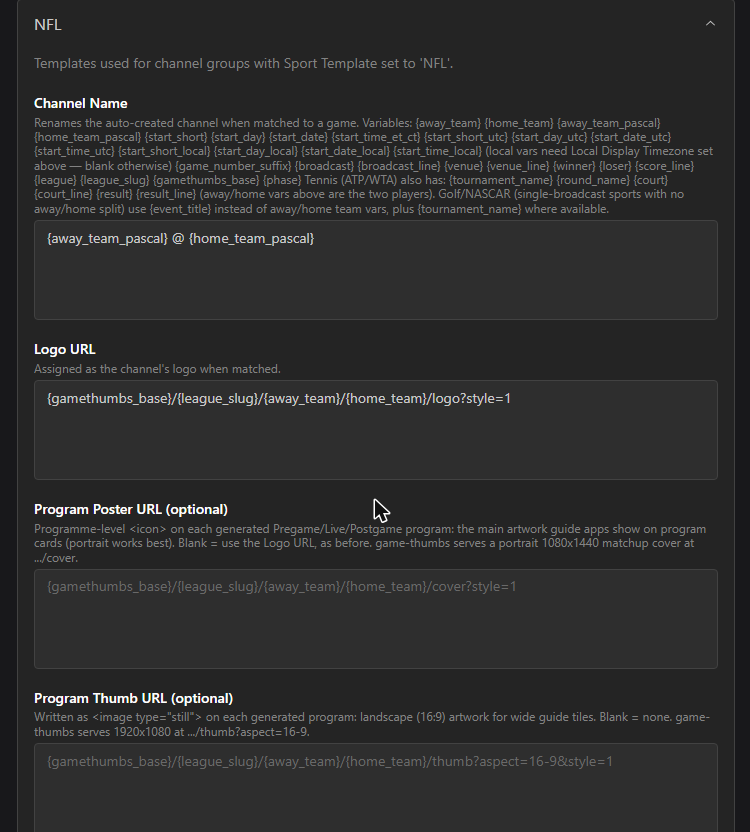
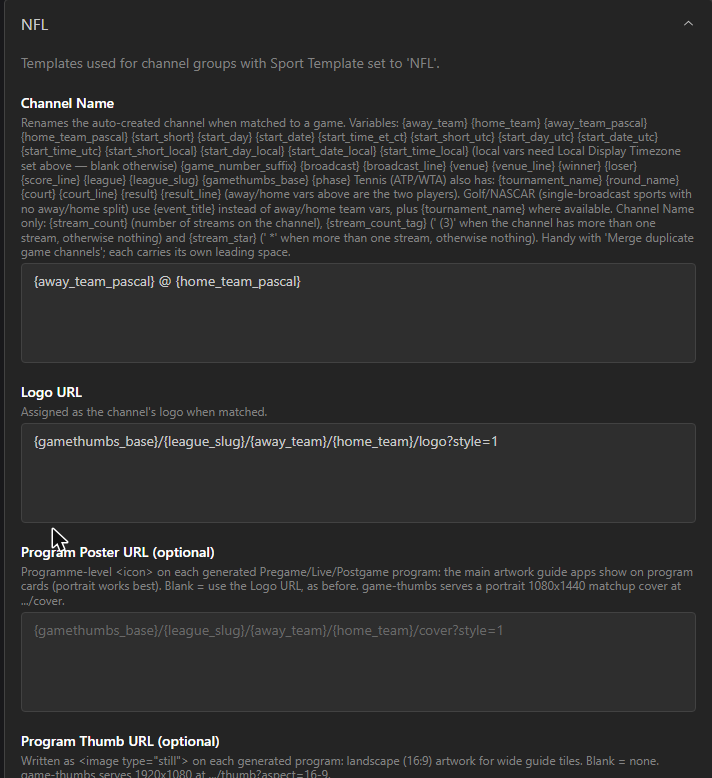
v0.6.05: stream-count variables for Channel Name (GH #35)
Adds {stream_count}, {stream_count_tag} (" (3)") and {stream_star} (" *") to
the Channel Name template so a channel with backup streams (for example after
"Merge duplicate game channels") can show it in the channel name. Tag and star
are empty for a single-stream channel. Off unless a template uses a variable.

The merge pass runs after the per-channel rename, so channels the merge touched
are re-processed afterwards (only when a saved Channel Name template uses a
stream variable) so the name carries the current count and the generated guide
name stays equal to the channel name.

Tested on dispatch-test with real Celery refreshes and Auto Channel Sync across
three fake providers: tag/star/default templates, re-refresh stability, provider
drop, merge off. Docs: README what's new, Sport Templates guide section and
variable reference, new screenshot, refreshed NFL template screenshot.

diff --git a/plugin.py b/plugin.py
@@ -1335,7 +1335,7 @@ _RULE_FORMAT_HELP = (
 
 class Plugin:
     name = "EPG & Sports Editor"
-    version = "0.6.04"
+    version = "0.6.05"
     description = (
         "Transform EPG program data into virtual EPG sources using "
         "per-source, per-field regex and find/replace rules. "
@@ -1838,7 +1838,13 @@ class Plugin:
                     "label": "Channel Name",
                     "type": "text",
                     "default": defaults["channel_name"],
-                    "help_text": "Renames the auto-created channel when matched to a game. " + self._SPORT_TEMPLATE_VAR_HELP,
+                    "help_text": (
+                        "Renames the auto-created channel when matched to a game. " + self._SPORT_TEMPLATE_VAR_HELP
+                        + " Channel Name only: {stream_count} (number of streams on the channel), "
+                        "{stream_count_tag} (' (3)' when the channel has more than one stream, otherwise nothing) "
+                        "and {stream_star} (' *' when more than one stream, otherwise nothing). Handy with "
+                        "'Merge duplicate game channels'; each carries its own leading space."
+                    ),
                 },
                 {
                     "id": f"sport_tpl_{slug}_logo_url",
@@ -3462,6 +3468,53 @@ class Plugin:
         }
 
     @staticmethod
+    def _stream_count_vars(ch):
+        """Template variables describing how many streams `ch` has right now (Channel Name only):
+        {stream_count} is the number; {stream_count_tag} is " (3)" and {stream_star} is " *",
+        both EMPTY when the channel has just one stream, and both carry their own leading space,
+        so "{away_team_pascal} @ {home_team_pascal}{stream_count_tag}" never leaves a trailing
+        space. Read from the database each pass: a merged channel (see
+        _merge_duplicate_channels) counts the streams that feature added. On any error the
+        count is treated as 1, so a failure here can only ever hide the marker, never break
+        the rename."""
+        try:
+            from apps.channels.models import ChannelStream
+            n = ChannelStream.objects.filter(channel_id=ch.id).count()
+        except Exception:
+            n = 1
+        n = max(int(n), 1)
+        return {
+            "stream_count": str(n),
+            "stream_count_tag": f" ({n})" if n > 1 else "",
+            "stream_star": " *" if n > 1 else "",
+        }
+
+    def _rename_after_merge(self, settings, sport_groups, events, epg_source):
+        """The merge pass runs AFTER the per-channel rename, so a channel it just gave extra
+        streams (or took them back from) was named with the old stream count. When any saved
+        Channel Name template uses a stream-count variable, re-process just the channels the
+        merge touched so the name, and the generated guide that carries the same name, show
+        the current count. Does nothing otherwise, so existing setups never pay for it."""
+        touched = getattr(self, "_merge_touched", None) or set()
+        self._merge_touched = set()
+        if not touched or not events:
+            return
+        uses = any(
+            isinstance(v, str) and "{stream_" in v
+            for k, v in (settings or {}).items()
+            if str(k).startswith("sport_tpl_") and str(k).endswith("_channel_name")
+        )
+        if not uses:
+            return
+        from apps.channels.models import Channel
+        for group, sport in sport_groups:
+            for ch in Channel.objects.filter(auto_created=True, channel_group=group, id__in=touched):
+                try:
+                    self._process_sports_editor_channel(ch, sport, events, settings, epg_source)
+                except Exception as exc:
+                    LOGGER.warning(f"EPG & Sports Editor: re-naming merged channel '{ch.name}' failed: {exc}")
+
+    @staticmethod
     def _render_sports_template(template_str, vars_dict):
         if not template_str:
             return ""
@@ -3651,6 +3704,10 @@ class Plugin:
                         f"EPG & Sports Editor: duplicate merge: channel {pid} '{names.get(pid, '')}' now has "
                         f"{added} added backup stream(s); hid {n} duplicate channel(s) {entry['dups']}"
                     )
+
+            # Primaries whose stream count may have changed (merged now, or released now), so the
+            # caller can refresh their names when a Channel Name template shows the count.
+            self._merge_touched = set(desired) | set(prev_primaries)
 
             new_state = {str(pid): {"dups": sorted(e["dups"]), "streams": e["streams"]} for pid, e in desired.items()}
             if new_state != old_state:
@@ -4046,6 +4103,9 @@ class Plugin:
         vars_base = self._build_sdp_template_vars(
             event, gamethumbs_base, league_label, "pregame", feed_tag=feed_tag, display_tz=display_tz
         )
+        # Channel Name only: how many streams this channel has right now (own + any added by
+        # the duplicate-merge feature). See _stream_count_vars.
+        vars_base.update(self._stream_count_vars(ch))
 
         channel_name_tpl = settings.get(f"sport_tpl_{template_slug}_channel_name") or defaults["channel_name"]
         new_name = self._render_sports_template(channel_name_tpl, vars_base)
@@ -4199,6 +4259,8 @@ class Plugin:
                 self._save_hidden_past_state(epg_source, hidden_ids, hidden_persisted)
             try:
                 merged_changed = self._merge_duplicate_channels(settings, sport_groups, epg_source)
+                if merged_changed:
+                    self._rename_after_merge(settings, sport_groups, events, epg_source)
             except Exception as e:
                 merged_changed = False
                 LOGGER.warning(f"EPG & Sports Editor: duplicate-channel merge failed: {e}")
@@ -4287,6 +4349,8 @@ class Plugin:
                 self._save_hidden_past_state(epg_source, hidden_ids, hidden_persisted)
             try:
                 merged_changed = self._merge_duplicate_channels(settings, sport_groups, epg_source)
+                if merged_changed:
+                    self._rename_after_merge(settings, sport_groups, events, epg_source)
             except Exception as e:
                 merged_changed = False
                 LOGGER.warning(f"EPG & Sports Editor: duplicate-channel merge failed: {e}")

diff --git a/docs/SPORT_TEMPLATES.md b/docs/SPORT_TEMPLATES.md
@@ -190,6 +190,26 @@ In that example, channel 90179 is the visible channel and carries a stream from 
 
 **Checking what it did.** Each time the merge changes something, the plugin log has a line like `duplicate merge: channel 56853 'Georgia Bulldogs @ South Carolina Gamecocks' now has 2 added backup stream(s); hid 2 duplicate channel(s) [56883, 56886]`, and `duplicate merge: un-hid ...` / `removed ... added stream(s)` when it releases one.
 
+### Showing how many streams a channel has (v0.6.05+)
+
+A merged channel carries a stream from each provider, but in your client it looks like any other channel. If you want to see which channels have backups, put one of these variables in the sport's **Channel Name** template (Settings, Sport Templates, your sport):
+
+| Variable | Result |
+|---|---|
+| `{stream_count}` | The number of streams on the channel: `3` |
+| `{stream_count_tag}` | ` (3)` when the channel has more than one stream, nothing at all when it has one |
+| `{stream_star}` | ` *` when the channel has more than one stream, nothing at all when it has one |
+
+`{stream_count_tag}` and `{stream_star}` carry their own leading space, so you add them straight after the name with no space of your own. For example, a Channel Name of `{away_team_pascal} @ {home_team_pascal}{stream_count_tag}` gives:
+
+![Channels page: Detroit Pistons @ Orlando Magic (3) and Boston Celtics @ Washington Wizards (2) are merged channels; Dallas Mavericks @ Denver Nuggets has one stream and no marker; the hidden duplicates keep their plain names](screenshots/v065_stream_count_in_channel_name.png)
+
+- It is off unless you add a variable to a template. Existing channel names do not change.
+- It counts the streams actually on the channel, whether they came from a merge or the provider put several on one channel.
+- The hidden duplicates are not renamed. Only the visible channel shows the count.
+- The count follows the merge. When a merge is released, the added streams are removed and the name goes back to having no marker.
+- It is available in **Channel Name** only, not in program titles or descriptions.
+
 ## Step 4 — Run it
 
 - **Automatically**: nothing to do — it runs right after every successful M3U refresh, immediately after Rename Rules.
@@ -352,6 +372,10 @@ All of these are available in every template field (Channel Name, Logo URL, and 
 | `{result_line}` | ` — Novak Djokovic bt Thiago Agustin Tirante 6-2 6-4` | Pre-formatted with a leading " — ", blank until the match has a result |
 | `{feed_tag}` | `HOME` | Populated when your provider runs separate regional-broadcast channels for the same game, tagged `HOME`/`AWAY`/`NATIONAL` right before the date/time in the raw auto-sync name (e.g. `... Baltimore Orioles HOME 23 Aug 01:35 PM ET`) — confirmed on MLB, and the same shape applies to any matchup sport (NBA, NFL, etc.) whose provider tags feeds this way. Blank for every other provider. |
 | `{feed_line}` | ` (Home Feed)` | Pre-formatted from `{feed_tag}` — blank (not just empty) when there's no feed tag, so a shared Channel Name template doesn't grow a dangling suffix for providers that don't split feeds |
+
+| `{stream_count}` | `3` | **Channel Name only.** How many streams the channel has right now (1 when it has just one). See [Showing how many streams a channel has](#showing-how-many-streams-a-channel-has-v0605) |
+| `{stream_count_tag}` | ` (3)` | **Channel Name only.** Blank when the channel has one stream, ` (N)` when it has more. Carries its own leading space |
+| `{stream_star}` | ` *` | **Channel Name only.** Blank when the channel has one stream, ` *` when it has more. Carries its own leading space |
 
 **Tip:** `{broadcast_line}` and `{venue_line}` already include their own leading space and connector word — just append them directly to a sentence, don't add your own " on " / " at " in front of them.
 

diff --git a/README.md b/README.md
@@ -19,6 +19,9 @@ Dispatcharr 0.34 introduced the plugin format 0.6 is built on, so 0.6 cannot be 
 
 **Upgrading from 0.5.x on Dispatcharr 0.34+?** Update from the plugin page. Your settings, virtual EPGs and sports-editor groups are kept, and the Include / Exclude / Fill group fields convert to the new pickers automatically. There is no Restart Dispatcharr step any more.
 
+**What's new in 0.6.05**
+- **Show how many streams a channel has** (GitHub #35, suggested by booyakafoo). New Channel Name variables: `{stream_count}` (`3`), `{stream_count_tag}` (` (3)`) and `{stream_star}` (` *`). The last two show nothing when the channel has a single stream, so only channels with backups get a marker, for example a Channel Name of `{away_team_pascal} @ {home_team_pascal}{stream_count_tag}` gives `Detroit Pistons @ Orlando Magic (3)`. Handy with **Merge duplicate game channels**, and useful in clients like Kodi where the channel name is what you see. Off unless you add a variable to a template. See the [Sport Templates Guide](docs/SPORT_TEMPLATES.md#showing-how-many-streams-a-channel-has-v0605).
+
 **What's new in 0.6.04**
 - **Program artwork URL templates** (GitHub #37, thanks tylertufano). Each sport's template section now has optional **Poster URL**, **Thumb URL** and **Backdrop URL** fields. Leave them blank and nothing changes. When filled, the poster becomes the program icon in the generated guide and the thumb and backdrop are added as still and backdrop images. See the [Sport Templates Guide](docs/SPORT_TEMPLATES.md).
 - **Restart after an in-place update.** Dispatcharr's background (Celery) workers can keep running the old plugin code after an update, which can make the post-refresh pass behave like the previous version (seen with GitHub #35: merged channels un-hidden after a provider refresh). After updating the plugin, restart the Dispatcharr container once. The earlier "no restart needed" notes in this README only apply to the web UI side.
